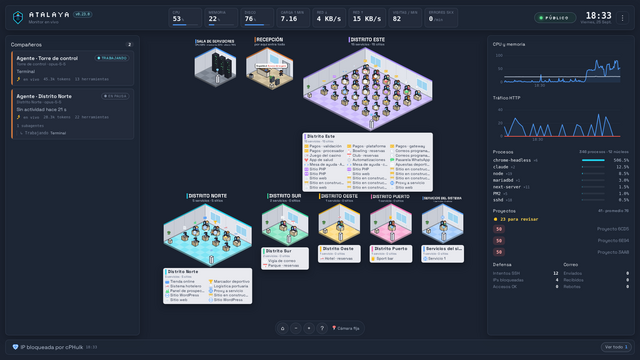
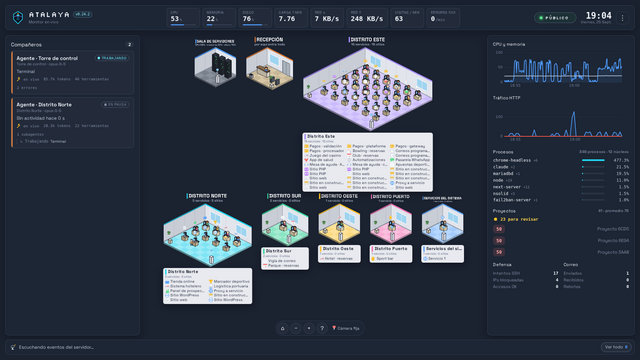
Kit al dia con Atalaya 0.25.0: versión móvil

diff --git a/web/css/app.css b/web/css/app.css
@@ -382,3 +382,79 @@ button.ev:hover { background: rgba(255, 255, 255, .06); }
 .w3-fish { translate: -50% -100%; font-size: .74rem; font-weight: 600; color: var(--ink); background: rgba(5, 9, 18, .72); padding: 0 .3rem; }
 .w3-fish.down { color: var(--bad); }
 .w3-plaque.compact .fishlist { display: none; }
+
+/* ================================================================ telefonos y tablets (body.compact)
+   Lo pone main.js con pantallas de hasta 1100 px de ancho o 560 px de alto. Todos los temas comparten esta
+   disposicion (cada uno conserva sus colores y su letra): barra arriba, tira de indicadores, el mundo en el
+   centro, la ultima novedad y la barra de pestanas abajo. Agentes, metricas y novedades se abren como hojas. */
+#tabs, #sheetBack { display: none; }
+html:has(body.compact) { font-size: 14px; }
+body.compact { --top-h: 3.2rem; --kpi-h: 3.5rem; --tab-h: calc(3.6rem + env(safe-area-inset-bottom)); --news-h: 2.3rem; }
+html body.compact #top { position: fixed !important; top: 0 !important; left: 0 !important; right: 0 !important; bottom: auto !important; width: auto !important; height: var(--top-h) !important; margin: 0 !important; transform: none !important;
+  padding: 0 .7rem !important; display: flex !important; align-items: center; gap: .5rem; border-width: 0 0 1px !important; z-index: 12; }
+html body.compact #top .brand p, html body.compact #top .clock { display: none !important; }
+html body.compact #top .brand h1 { font-size: 1.05rem; }
+html body.compact #top .right { margin-left: auto; }
+html body.compact .kpis { position: fixed !important; top: var(--top-h) !important; left: 0 !important; right: 0 !important; bottom: auto !important; width: auto !important; height: var(--kpi-h) !important;
+  display: flex !important; grid-template-columns: none !important; justify-content: flex-start !important; gap: .4rem !important; padding: .35rem .6rem !important; margin: 0 !important; transform: none !important;
+  overflow-x: auto !important; overflow-y: hidden !important; scrollbar-width: none; background: var(--panel-solid) !important; border: 0 !important; border-bottom: 1px solid var(--line) !important; box-shadow: none !important; z-index: 11; }
+html body.compact .kpis::-webkit-scrollbar { display: none; }
+html body.compact .kpi { flex: none !important; min-width: 5.4rem !important; height: auto !important; padding: .25rem .5rem !important; }
+html body.compact .kpi .v { font-size: 1.05rem !important; }
+html body.compact #worldArea { display: block !important; top: calc(var(--top-h) + var(--kpi-h)) !important; bottom: calc(var(--tab-h) + var(--news-h)) !important; left: 0 !important; right: 0 !important; }
+html body.compact #navbar { position: fixed !important; top: auto !important; left: auto !important; right: .5rem !important; bottom: calc(var(--tab-h) + var(--news-h) + .5rem) !important; transform: none !important; margin: 0 !important; z-index: 9; }
+html body.compact #navState { display: none !important; }
+html body.compact #navbar button { width: 2.5rem; height: 2.5rem; }
+/* la ultima novedad, en una linea sobre las pestanas (tocarla abre la hoja de novedades) */
+html body.compact #ticker { position: fixed !important; top: auto !important; left: 0 !important; right: 0 !important; bottom: var(--tab-h) !important; width: auto !important; height: var(--news-h) !important; max-height: none !important; min-height: 0 !important;
+  margin: 0 !important; padding: 0 .7rem !important; transform: none !important; display: flex !important; flex-direction: row !important; align-items: center !important; border-width: 1px 0 0 !important; border-radius: 0 !important; z-index: 11; }
+html body.compact #ticker::before { display: none !important; }
+html body.compact #ticker .tscroll { overflow: hidden !important; flex: 1; }
+html body.compact #ticker #log { flex-direction: column !important; white-space: nowrap !important; width: 100% !important; }
+html body.compact #ticker #log .ev { display: block !important; overflow: hidden; text-overflow: ellipsis; white-space: nowrap !important; width: 100%; text-align: left !important; }
+html body.compact #ticker #log .ev:nth-child(n+2) { display: none !important; }
+html body.compact #ticker #tall { display: none !important; }
+/* paneles cerrados; abiertos como hojas desde abajo */
+html body.compact #left, html body.compact #right { display: none !important; }
+html body.compact[data-sheet="left"] #left, html body.compact[data-sheet="right"] #right, html body.compact[data-sheet="ticker"] #ticker {
+  display: flex !important; flex-direction: column !important; position: fixed !important; top: auto !important; left: 0 !important; right: 0 !important; bottom: var(--tab-h) !important;
+  width: auto !important; height: auto !important; min-height: 40dvh !important; max-height: calc(100dvh - var(--top-h) - var(--tab-h) - 1.5rem) !important; margin: 0 !important; transform: none !important;
+  padding: 1rem !important; overflow-y: auto !important; gap: .8rem; z-index: 20 !important; border-radius: 16px 16px 0 0; box-shadow: 0 -12px 40px rgba(0, 0, 0, .45) !important; }
+html body.compact[data-sheet="ticker"] #ticker { align-items: stretch !important; }
+html body.compact[data-sheet="ticker"] #ticker .tscroll { overflow-y: auto !important; }
+html body.compact[data-sheet="ticker"] #ticker #log { white-space: normal !important; gap: .35rem !important; }
+html body.compact[data-sheet="ticker"] #ticker #log .ev { white-space: normal !important; overflow: visible; display: block !important; }
+html body.compact[data-sheet="ticker"] #ticker #tall { display: inline-flex !important; align-self: flex-end; position: static !important; }
+html body.compact #right section, html body.compact #right .duo { flex-shrink: 0; }
+html body.compact #right .chart { height: 7rem !important; }
+html body.compact #sheetBack { display: block; position: fixed; inset: 0; z-index: 15; background: rgba(0, 0, 0, .45); opacity: 0; pointer-events: none; transition: opacity .2s; }
+html body.compact[data-sheet="left"] #sheetBack, html body.compact[data-sheet="right"] #sheetBack, html body.compact[data-sheet="ticker"] #sheetBack { opacity: 1; pointer-events: auto; }
+/* barra de pestanas */
+html body.compact #tabs { display: grid; grid-template-columns: repeat(4, 1fr); position: fixed; left: 0; right: 0; bottom: 0; height: var(--tab-h); padding-bottom: env(safe-area-inset-bottom); z-index: 21;
+  background: var(--panel-solid); border-top: 1px solid var(--line-strong); }
+#tabs button { position: relative; display: flex; flex-direction: column; align-items: center; justify-content: center; gap: .15rem; border: 0; background: none; color: var(--ink-3); font: inherit; font-size: .72rem; cursor: pointer; }
+#tabs button .px { width: 1.35rem; height: 1.35rem; image-rendering: pixelated; opacity: .7; }
+#tabs button b { font-weight: 600; }
+#tabs button[aria-pressed="true"] { color: var(--accent); }
+#tabs button[aria-pressed="true"] .px { opacity: 1; }
+#tabs button[aria-pressed="true"]::before { content: ''; position: absolute; top: 0; left: 25%; right: 25%; height: 2px; background: var(--accent); }
+#tabs button i { position: absolute; top: .35rem; left: calc(50% + .5rem); min-width: 1.1rem; padding: 0 .25rem; border-radius: 9px; background: var(--accent); color: var(--bg); font-style: normal; font-size: .62rem; font-weight: 700; line-height: 1.1rem; text-align: center; }
+#tabs button i:empty { display: none; }
+/* detalle: hoja desde abajo, sobre todo */
+html body.compact .drawer { top: auto !important; left: 0 !important; right: 0 !important; bottom: 0 !important; width: auto !important; max-height: 82dvh !important; z-index: 40 !important; border-radius: 18px 18px 0 0; }
+/* en pantallas chicas los titulos del mundo 3D van mas chicos y sin subtitulo (no se enciman) */
+html body.compact .w3-group b { font-size: .82rem !important; }
+html body.compact .w3-group small { display: none; }
+html body.compact .w3-item { font-size: .68rem; }
+/* telefono acostado: las pestanas pasan a una barra vertical a la derecha y el mundo gana alto */
+@media (max-height: 500px) and (orientation: landscape) {
+  body.compact { --tab-h: 0px; --rail-w: 4.4rem; --top-h: 2.8rem; --kpi-h: 3.2rem; }
+  html body.compact #tabs { grid-template-columns: none; grid-template-rows: repeat(4, 1fr); top: 0; bottom: 0; left: auto; right: 0; width: var(--rail-w); height: auto; padding: 0 env(safe-area-inset-right) 0 0; border-top: 0; border-left: 1px solid var(--line-strong); }
+  #tabs button[aria-pressed="true"]::before { top: 25%; bottom: 25%; left: 0; right: auto; width: 2px; height: auto; }
+  html body.compact #top, html body.compact .kpis, html body.compact #ticker { right: var(--rail-w) !important; }
+  html body.compact #worldArea { right: var(--rail-w) !important; bottom: var(--news-h) !important; }
+  html body.compact #navbar { right: calc(var(--rail-w) + .5rem) !important; bottom: calc(var(--news-h) + .4rem) !important; }
+  html body.compact[data-sheet="left"] #left, html body.compact[data-sheet="right"] #right, html body.compact[data-sheet="ticker"] #ticker { right: var(--rail-w) !important; bottom: 0 !important; max-height: calc(100dvh - var(--top-h) - .5rem) !important; }
+  html body.compact .drawer { right: var(--rail-w) !important; max-height: 92dvh !important; }
+}
+html body.compact #menu { z-index: 30 !important; position: fixed !important; top: calc(var(--top-h) + .3rem) !important; right: .5rem !important; left: auto !important; max-height: calc(100dvh - var(--top-h) - var(--tab-h) - 1rem); overflow-y: auto; }

diff --git a/web/js/main.js b/web/js/main.js
@@ -414,6 +414,31 @@ function connect() {
   };
 }
 
+// ---------------------------------------------------------------- telefonos y tablets
+// Con pantalla chica el HUD se reacomoda (en CSS, body.compact): el mundo ocupa el centro y los paneles
+// (agentes, metricas y novedades) se abren como hojas desde la barra de pestanas de abajo.
+const compactMQ = matchMedia('(max-width: 1100px), (max-height: 560px)');
+function openSheet(id) {
+  document.body.dataset.sheet = id || '';
+  document.querySelectorAll('#tabs [data-sheet]').forEach(b => b.setAttribute('aria-pressed', String(b.dataset.sheet === (id || ''))));
+  if (id === 'right') rethemeCharts(); // las graficas se miden al abrirse la hoja
+}
+function applyCompact() {
+  document.body.classList.toggle('compact', compactMQ.matches);
+  if (!compactMQ.matches) openSheet('');
+  if (world) requestAnimationFrame(() => world.setInsets(insets()));
+}
+compactMQ.addEventListener('change', applyCompact);
+$('tabs').addEventListener('click', e => { const b = e.target.closest('[data-sheet]'); if (b) openSheet(document.body.dataset.sheet === b.dataset.sheet ? '' : b.dataset.sheet); });
+$('sheetBack').addEventListener('click', () => openSheet(''));
+document.addEventListener('keydown', e => { if (e.key === 'Escape' && document.body.dataset.sheet) openSheet(''); });
+// al tocar algo dentro de una hoja se abre su detalle: la hoja se cierra para dejarle lugar
+document.addEventListener('click', e => { if (document.body.classList.contains('compact') && document.body.dataset.sheet && e.target.closest('#left [data-go], #right [data-go], #ticker [data-go], #left .agent, #tall')) setTimeout(() => openSheet(''), 0); }, true);
+// contadores en las pestanas
+const mirror = (from, to) => new MutationObserver(() => { $(to).textContent = $(from).textContent === '0' ? '' : $(from).textContent; }).observe($(from), { childList: true, characterData: true, subtree: true });
+mirror('agentCount', 'tabAgents'); mirror('tcount', 'tabEvents');
+applyCompact();
+
 (async () => {
   initKpis();
   await document.fonts.ready.catch(() => { });

diff --git a/web/themes/raid/world.js b/web/themes/raid/world.js
@@ -415,7 +415,10 @@ export default class RaidWorld {
     this.world.x = Math.round(W / 2 + this.cam.x); this.world.y = Math.round(H / 2 + this.cam.y);
     const toS = p => ({ x: this.world.x + p.x * this.cam.s, y: this.world.y + p.y * this.cam.s });
     if (this.bossName) { const p = toS({ x: 0, y: this.arena.y0 + 132 }); this.bossName.x = p.x; this.bossName.y = p.y + 24; }
-    for (const gr of this.groups.values()) { const p = toS(gr.labelPos); gr.label.x = p.x; gr.label.y = p.y; gr.sub.x = p.x + gr.label.width + 14; gr.sub.y = p.y - 2; }
+    // en pantallas chicas los textos se achican con el area del mundo (no se enciman)
+    const ts = clamp(Math.min((W - this.insets.left - this.insets.right) / 900, (H - this.insets.top - this.insets.bottom) / 560), 0.5, 1);
+    if (this.bossName) this.bossName.scale.set(ts);
+    for (const gr of this.groups.values()) { const p = toS(gr.labelPos); gr.label.scale.set(ts); gr.sub.scale.set(ts); gr.label.x = p.x; gr.label.y = p.y; gr.sub.x = p.x + gr.label.width + 14 * ts; gr.sub.y = p.y - 2 * ts; }
     for (const p of this.players.values()) if (p.castPos) { const q = toS(p.castPos); p.castT.x = q.x; p.castT.y = q.y; p.castT.visible = this.cam.s > 1.2; }
     for (const f of this.fx) if (f.world) { const p = toS(f.world); f.obj.x = p.x; f.obj.y = p.y; }
     if (this.manualUntil && this.manualUntil < this.t) { this.manualUntil = 0; this.camTarget = this.overview; this.navChanged(); }

diff --git a/web/themes/villa/world.js b/web/themes/villa/world.js
@@ -598,7 +598,10 @@ export default class VillaWorld {
     // textos en pantalla: siguen su punto del mundo
     const toScreen = p => ({ x: this.world.x + p.x * this.cam.s, y: this.world.y + p.y * this.cam.s });
     if (this.castleLabel) { const p = toScreen({ x: 0, y: -4.4 * U }); this.castleLabel.x = p.x; this.castleLabel.y = p.y; }
-    for (const v of this.villages.values()) { const p = toScreen(v.labelPos); v.label.x = p.x; v.label.y = p.y - 20; v.sub.x = p.x; v.sub.y = p.y; }
+    // en pantallas chicas los textos se achican con el area del mundo (no se enciman)
+    const ts = clamp(Math.min((W - this.insets.left - this.insets.right) / 900, (H - this.insets.top - this.insets.bottom) / 560), 0.5, 1);
+    if (this.castleLabel) this.castleLabel.scale.set(ts);
+    for (const v of this.villages.values()) { const p = toScreen(v.labelPos); v.label.scale.set(ts); v.sub.scale.set(ts); v.label.x = p.x; v.label.y = p.y - 20 * ts; v.sub.x = p.x; v.sub.y = p.y; }
     for (const f of this.fx) if (f.world) { const p = toScreen(f.world); f.obj.x = p.x; f.obj.y = p.y; }
     if (this.manualUntil && this.manualUntil < this.t) { this.manualUntil = 0; this.camTarget = this.overview; this.navChanged(); }
     else if (this.manualUntil && Math.floor(this.t) !== this.lastNav) { this.lastNav = Math.floor(this.t); this.navChanged(); }

diff --git a/test/themes.test.js b/test/themes.test.js
@@ -32,3 +32,15 @@ for (const id of ids) {
   for (const c of m.credits || []) assert.ok(c.what && c.license, `${id}: cada credito con su licencia`);
 }
 console.log(`ok   temas: ${ids.join(', ')} con manifiesto, interfaz del mundo, sin emojis ni red externa`);
+
+// telefonos y tablets: la disposicion compacta existe y cubre las piezas del HUD en todos los temas
+{
+  const html = fs.readFileSync(path.join(__dirname, '../web/index.html'), 'utf8');
+  const css = fs.readFileSync(path.join(__dirname, '../web/css/app.css'), 'utf8');
+  const main = fs.readFileSync(path.join(__dirname, '../web/js/main.js'), 'utf8');
+  for (const s of ['left', 'right', 'ticker']) assert.ok(html.includes(`data-sheet="${s}"`), `pestana ${s}`);
+  assert.ok(/matchMedia\([^)]*max-width: 1100px/.test(main), 'main.js activa body.compact en pantallas chicas');
+  for (const sel of ['#top', '.kpis', '#worldArea', '#navbar', '#ticker', '#left', '#right', '.drawer', '#tabs']) assert.ok(css.includes(`html body.compact ${sel}`), `compacto: ${sel}`);
+  assert.ok(/orientation: landscape/.test(css), 'telefono acostado: barra vertical');
+  console.log('ok   telefonos y tablets: pestanas, hojas y disposicion compacta para todos los temas');
+}

diff --git a/web/themes/ops/world.js b/web/themes/ops/world.js
@@ -304,7 +304,7 @@ export default class Ops3D extends Stage3D {
   placeLabels() {
     super.placeLabels();
     if (!this.W || !this.sectors.size) return;
-    const zoomed = this.orbit.zoom > 1.4;
+    const zoomed = this.orbit.zoom > 1.4 || this.cardsOff; // sin lugar a los costados (telefono): sin fichas
     const ins = this.insets, top = ins.top + 8, bottom = this.H - ins.bottom - 8;
     const c = this.toScreen(new THREE.Vector3(this.orbit.tx, 0, this.orbit.tz));
     const rimPx = Math.abs(this.toScreen(new THREE.Vector3(this.orbit.tx + R * 1.12, 0, this.orbit.tz)).x - c.x);
@@ -354,7 +354,8 @@ export default class Ops3D extends Stage3D {
     if (!this.W) return;
     const aw = Math.max(200, this.W - ins.left - ins.right);
     const w = CARD_W * clamp(this.H / 1080, 0.75, 2);
-    const k = aw / Math.max(200, aw - 2 * (w + 50)); // cuanto mas ancha debe "verse" la mesa
+    this.cardsOff = aw < 2 * (w + 50) + 320;
+    const k = this.cardsOff ? 1 : aw / Math.max(200, aw - 2 * (w + 50)); // cuanto mas ancha debe "verse" la mesa
     this.setView({ dist: this.distToFit(R * 2.3 * k, R * 2.3 * Math.sin(this.view.el) + 1.5) }, true);
   }
 

diff --git a/web/index.html b/web/index.html
@@ -99,6 +99,14 @@
   <button id="tall" class="tall" data-tip="Historial|Todas las novedades recientes, con filtros.">Ver todo <b id="tcount">0</b></button>
 </footer>
 
+<!-- telefonos y tablets: pestanas que abren cada panel como hoja deslizable -->
+<nav id="tabs" aria-label="Paneles">
+  <button data-sheet="" aria-pressed="true"><span data-px="city"></span><b>Mundo</b></button>
+  <button data-sheet="left" aria-pressed="false"><span data-px="bot"></span><b>Agentes</b><i id="tabAgents"></i></button>
+  <button data-sheet="right" aria-pressed="false"><span data-px="chart"></span><b>Métricas</b></button>
+  <button data-sheet="ticker" aria-pressed="false"><span data-px="antenna"></span><b>Novedades</b><i id="tabEvents"></i></button>
+</nav>
+<div id="sheetBack" aria-hidden="true"></div>
 <div id="conn" class="conn" hidden>Reconectando…</div>
 <div id="tip" class="tip" hidden role="tooltip"></div>
 

diff --git a/web/js/stage3d.js b/web/js/stage3d.js
@@ -185,7 +185,8 @@ export class Stage3D {
     const aw = Math.max(200, this.W - ins.left - ins.right), ah = Math.max(200, this.H - ins.top - ins.bottom);
     const cx = ins.left + aw / 2, cy = ins.top + ah / 2;
     this.camera.setViewOffset(this.W, this.H, this.W / 2 - cx, this.H / 2 - cy, this.W, this.H);
-    this.fitZoom = Math.min(aw / this.W, ah / this.H) * (this.fitScale || 1.2);
+    // en un area mas alta que ancha (telefono en vertical) se aleja: la escena suele ser mas ancha que alta
+    this.fitZoom = Math.min(aw / this.W, ah / this.H) * (this.fitScale || 1.2) * (aw < ah ? (aw / ah) ** 2 : 1);
     this.camera.updateProjectionMatrix();
   }
   // el tema fija su vista general (y la camara va hacia ella)

diff --git a/web/js/hud.js b/web/js/hud.js
@@ -88,7 +88,7 @@ function buildCharts() {
 export function rethemeCharts() { if (chCpu) { fitRight(); buildCharts(); } }
 // si la columna derecha no cabe en su alto, las dos graficas se achican lo justo (hasta 3 rem) para que se vea todo
 function fitRight() {
-  const r = $('right'); if (!r) return;
+  const r = $('right'); if (!r || document.body.classList.contains('compact')) return;
   const charts = [...r.querySelectorAll('.chart')];
   charts.forEach(c => { c.style.height = ''; });
   const over = r.scrollHeight - r.clientHeight;

diff --git a/web/themes/oficina/world.js b/web/themes/oficina/world.js
@@ -236,6 +236,7 @@ export default class OficinaWorld {
     this.layoutKey = key;
     this.world.removeChildren().forEach(c => c.destroy({ children: true }));
     this.tags.removeChildren().forEach(c => c.destroy());
+    this.selG = null; this.racks = null; this.gateLamp = null; // se rearman con la sala
     for (const r of this.rooms.values()) if (r.plaque) r.plaque.remove();
     for (const m of this.mates.values()) m.dead = true;
     this.rooms.clear(); this.desks.clear(); this.mates.clear();
